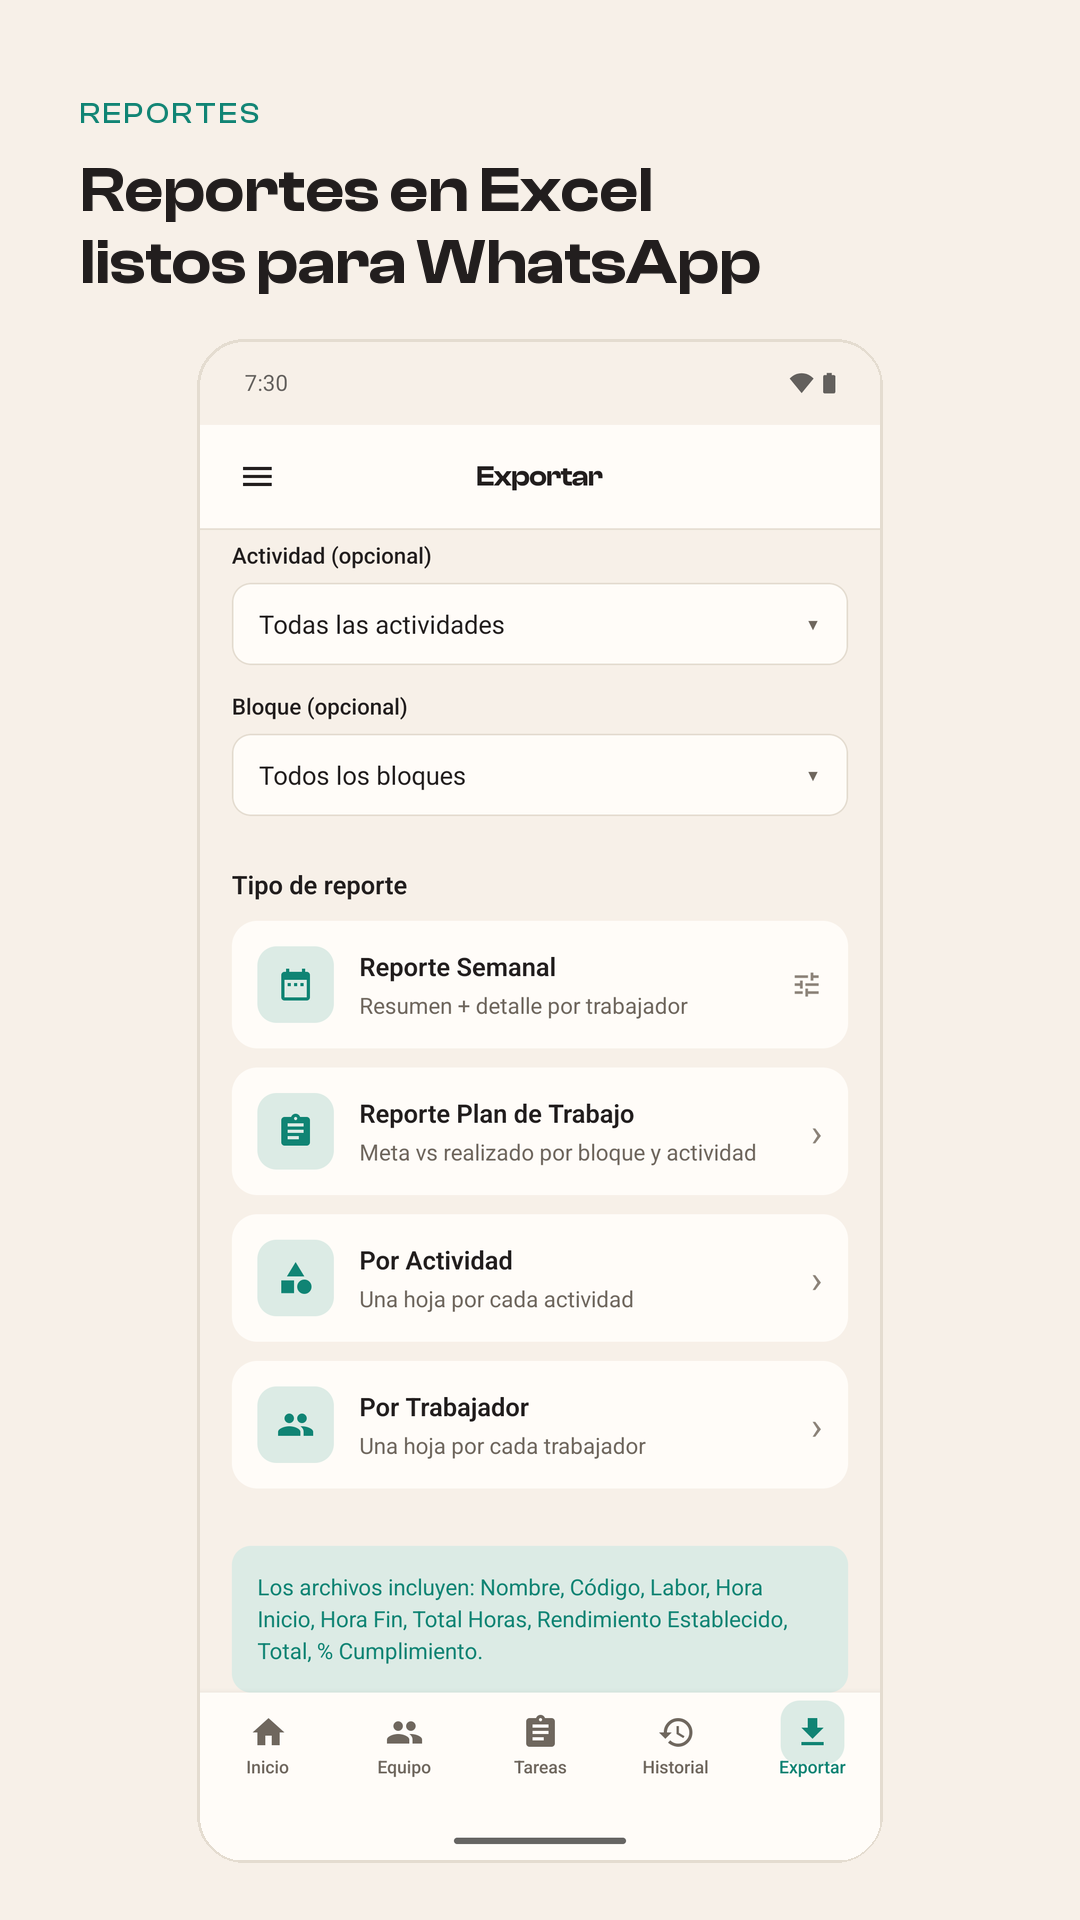
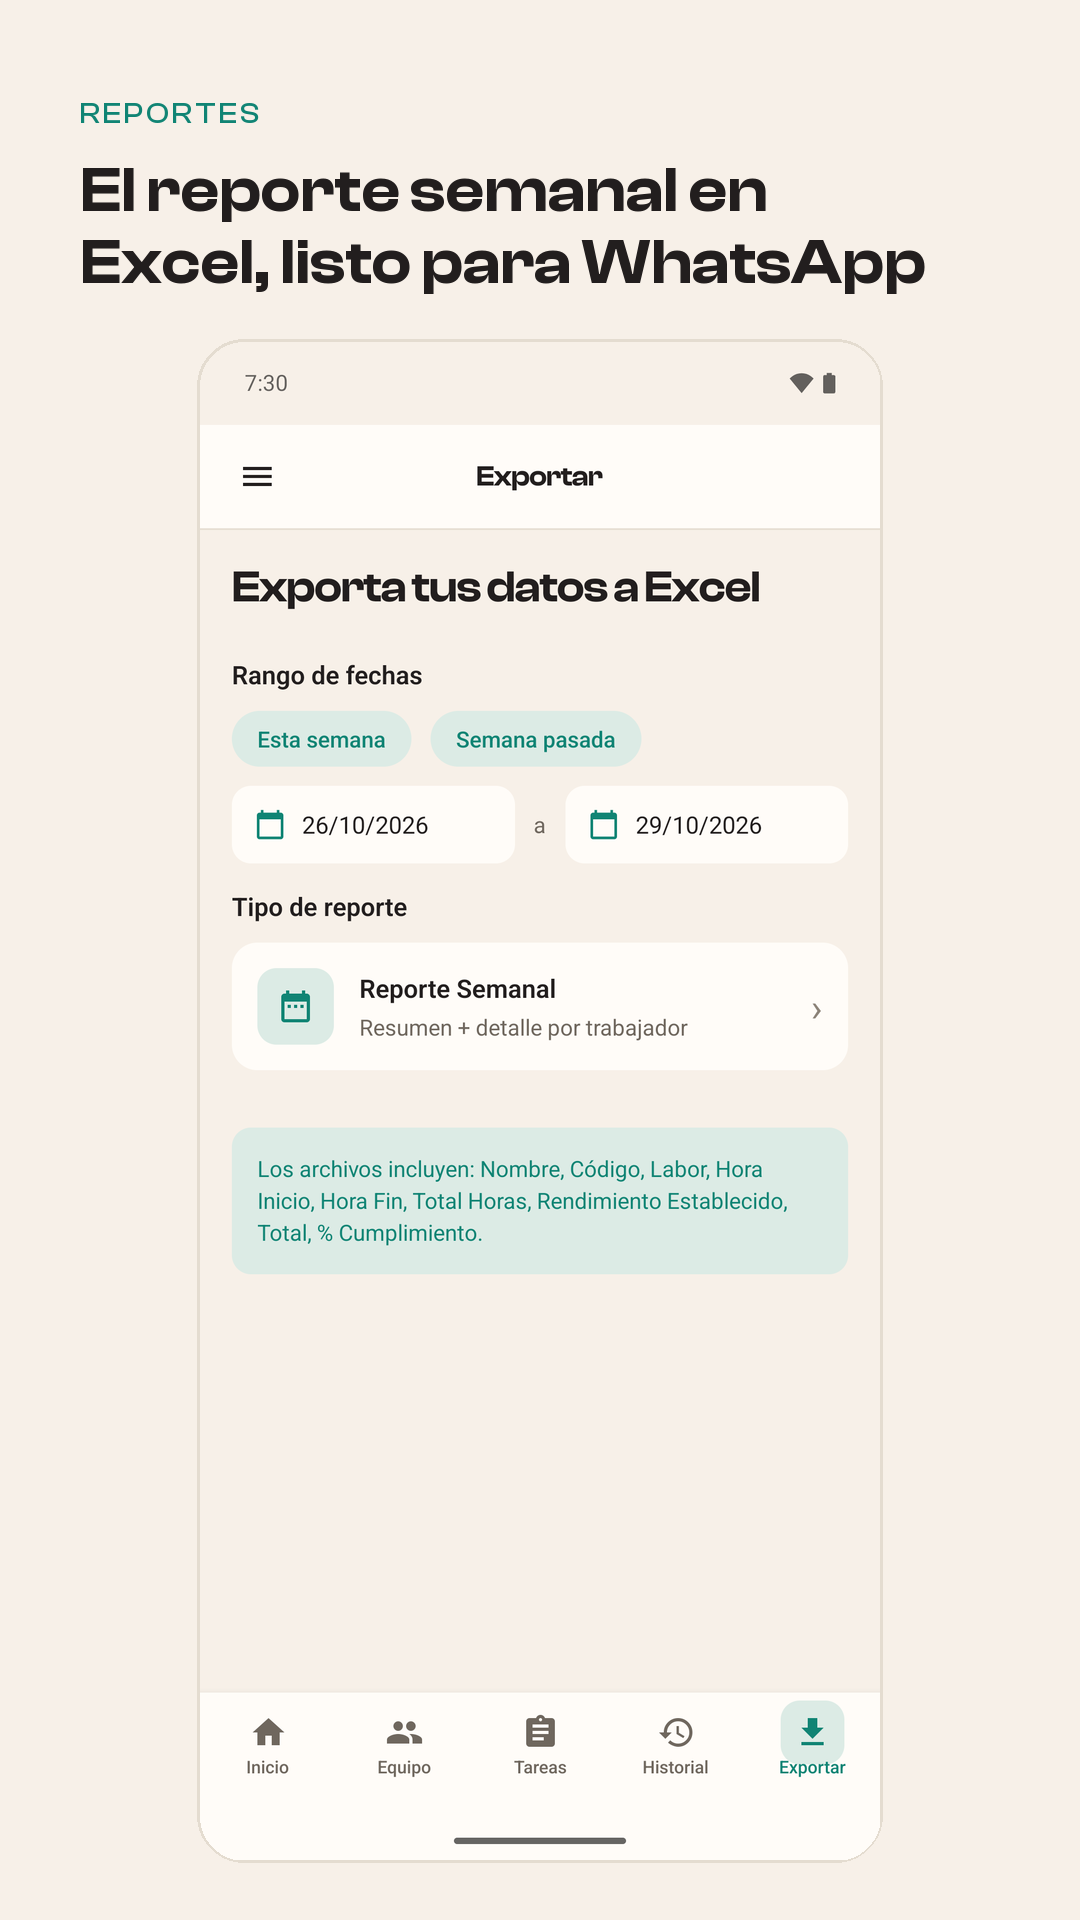
feat: primera versión pública sin las funciones candidatas a Premium
Con PREMIUM_ENABLED = false (src/config/features.ts) se ocultan:
- Estadísticas (menú y botón en Historial)
- Metas semanales (menú, conteo en Respaldo y texto de Bloques)
- Reportes Plan de trabajo, Por actividad y Por trabajador, los filtros
  de Exportar y la selección de columnas: el reporte semanal se exporta
  directo con todas las columnas, y si el rango pasa de 7 días se avisa

Los datos de metas se siguen guardando y viajan en el respaldo, así que
con true vuelve todo. El tutorial, la descripción de la ficha y las
capturas (Historial y Ausencias en lugar de Estadísticas y Metas) quedan
acordes con lo que se ve.

diff --git a/src/presentation/screens/ExportScreen.tsx b/src/presentation/screens/ExportScreen.tsx
@@ -12,6 +12,7 @@ import { SafeAreaView } from 'react-native-safe-area-context';
 import { MaterialIcons } from '@expo/vector-icons';
 import DateTimePicker from '@react-native-community/datetimepicker';
 import { colors, fonts } from '../theme';
+import { PREMIUM_ENABLED } from '../../config/features';
 import { usePerformanceStore, useWorkerStore, useActivityStore, useBlockStore } from '../../store';
 import { exportToExcel, exportByActivity, exportByWorker, exportWeeklyReport, exportWorkPlan, WEEKLY_SUMMARY_FIELDS, WEEKLY_DETAIL_FIELDS } from '../../utils/excelExport';
 import { useToast } from '../context/ToastContext';
@@ -199,51 +200,53 @@ export const ExportScreen: React.FC = () => {
         </View>
 
         {/* Filtros opcionales */}
-        <View style={styles.filterSection}>
-          <View style={styles.filterHeader}>
-            <Text style={styles.sectionTitle}>Filtros opcionales</Text>
-            {(selectedWorker || selectedActivity || selectedBlock) && (
-              <TouchableOpacity 
-                style={styles.clearFiltersBtn}
-                onPress={() => {
-                  setSelectedWorker('');
-                  setSelectedActivity('');
-                  setSelectedBlock('');
-                }}
-              >
-                <MaterialIcons name="clear" size={16} color={colors.danger} />
-                <Text style={styles.clearFiltersText}>Limpiar</Text>
-              </TouchableOpacity>
-            )}
-          </View>
-          
-          <Select
-            label="Trabajador (opcional)"
-            placeholder="Todos los trabajadores"
-            options={[{ label: 'Todos los trabajadores', value: '' }, ...workerOptions]}
-            value={selectedWorker}
-            onChange={setSelectedWorker}
-          />
-          
-          <Select
-            label="Actividad (opcional)"
-            placeholder="Todas las actividades"
-            options={[{ label: 'Todas las actividades', value: '' }, ...activityOptions]}
-            value={selectedActivity}
-            onChange={setSelectedActivity}
-          />
+        {PREMIUM_ENABLED && (
+          <View style={styles.filterSection}>
+            <View style={styles.filterHeader}>
+              <Text style={styles.sectionTitle}>Filtros opcionales</Text>
+              {(selectedWorker || selectedActivity || selectedBlock) && (
+                <TouchableOpacity 
+                  style={styles.clearFiltersBtn}
+                  onPress={() => {
+                    setSelectedWorker('');
+                    setSelectedActivity('');
+                    setSelectedBlock('');
+                  }}
+                >
+                  <MaterialIcons name="clear" size={16} color={colors.danger} />
+                  <Text style={styles.clearFiltersText}>Limpiar</Text>
+                </TouchableOpacity>
+              )}
+            </View>
+            
+            <Select
+              label="Trabajador (opcional)"
+              placeholder="Todos los trabajadores"
+              options={[{ label: 'Todos los trabajadores', value: '' }, ...workerOptions]}
+              value={selectedWorker}
+              onChange={setSelectedWorker}
+            />
+            
+            <Select
+              label="Actividad (opcional)"
+              placeholder="Todas las actividades"
+              options={[{ label: 'Todas las actividades', value: '' }, ...activityOptions]}
+              value={selectedActivity}
+              onChange={setSelectedActivity}
+            />
 
-          <Select
-            label="Bloque (opcional)"
-            placeholder="Todos los bloques"
-            options={[
-              { label: 'Todos los bloques', value: '' },
-              ...blockList.map(b => ({ label: `Bloque ${b.name}`, value: b.name })),
-            ]}
-            value={selectedBlock}
-            onChange={setSelectedBlock}
-          />
-        </View>
+            <Select
+              label="Bloque (opcional)"
+              placeholder="Todos los bloques"
+              options={[
+                { label: 'Todos los bloques', value: '' },
+                ...blockList.map(b => ({ label: `Bloque ${b.name}`, value: b.name })),
+              ]}
+              value={selectedBlock}
+              onChange={setSelectedBlock}
+            />
+          </View>
+        )}
 
         {/* Opciones de exportación */}
         <View style={styles.options}>
@@ -253,7 +256,7 @@ export const ExportScreen: React.FC = () => {
           {!selectedWorker && !selectedActivity && differenceInDays(endDate, startDate) <= 7 && (
             <TouchableOpacity 
               style={styles.exportOption}
-              onPress={() => setShowFieldSelector(true)}
+              onPress={() => (PREMIUM_ENABLED ? setShowFieldSelector(true) : handleExport('weekly'))}
               activeOpacity={0.7}
               disabled={exporting}
             >
@@ -264,30 +267,40 @@ export const ExportScreen: React.FC = () => {
                 <Text style={styles.optionTitle}>Reporte Semanal</Text>
                 <Text style={styles.optionSubtitle}>Resumen + detalle por trabajador</Text>
               </View>
-              <MaterialIcons name="tune" size={20} color={colors.textLight} />
+              {PREMIUM_ENABLED
+                ? <MaterialIcons name="tune" size={20} color={colors.textLight} />
+                : <Text style={styles.chevron}>›</Text>}
             </TouchableOpacity>
           )}
 
+          {!PREMIUM_ENABLED && differenceInDays(endDate, startDate) > 7 && (
+            <Text style={styles.optionSubtitle}>
+              El reporte semanal es de máximo 7 días. Elige "Esta semana" o "Semana pasada".
+            </Text>
+          )}
+
           {/* Reporte Plan de Trabajo */}
-          <TouchableOpacity 
-            style={styles.exportOption}
-            onPress={handleExportWorkPlan}
-            activeOpacity={0.7}
-            disabled={exporting}
-          >
-            <View style={[styles.optionIcon, { backgroundColor: colors.primaryLight }]}>
-              <MaterialIcons name="assignment" size={24} color={colors.primary} />
-            </View>
-            <View style={styles.optionContent}>
-              <Text style={styles.optionTitle}>Reporte Plan de Trabajo</Text>
-              <Text style={styles.optionSubtitle}>Meta vs realizado por bloque y actividad</Text>
-            </View>
-            <Text style={styles.chevron}>›</Text>
-          </TouchableOpacity>
+          {PREMIUM_ENABLED && (
+            <TouchableOpacity 
+              style={styles.exportOption}
+              onPress={handleExportWorkPlan}
+              activeOpacity={0.7}
+              disabled={exporting}
+            >
+              <View style={[styles.optionIcon, { backgroundColor: colors.primaryLight }]}>
+                <MaterialIcons name="assignment" size={24} color={colors.primary} />
+              </View>
+              <View style={styles.optionContent}>
+                <Text style={styles.optionTitle}>Reporte Plan de Trabajo</Text>
+                <Text style={styles.optionSubtitle}>Meta vs realizado por bloque y actividad</Text>
+              </View>
+              <Text style={styles.chevron}>›</Text>
+            </TouchableOpacity>
+          )}
 
 
           {/* Por Actividad - solo si no hay actividad específica seleccionada */}
-          {!selectedActivity && (
+          {PREMIUM_ENABLED && !selectedActivity && (
             <TouchableOpacity 
               style={styles.exportOption}
               onPress={() => handleExport('byActivity')}
@@ -310,7 +323,7 @@ export const ExportScreen: React.FC = () => {
           )}
 
           {/* Por Trabajador - solo si no hay trabajador específico seleccionado */}
-          {!selectedWorker && (
+          {PREMIUM_ENABLED && !selectedWorker && (
             <TouchableOpacity 
               style={styles.exportOption}
               onPress={() => handleExport('byWorker')}

diff --git a/src/presentation/components/Sidebar.tsx b/src/presentation/components/Sidebar.tsx
@@ -5,6 +5,7 @@ import { MaterialIcons } from '@expo/vector-icons';
 import { useNavigation } from '@react-navigation/native';
 import { colors, fonts } from '../theme';
 import { useTour } from '../tour';
+import { PREMIUM_ENABLED } from '../../config/features';
 
 interface SidebarProps {
   visible: boolean;
@@ -86,22 +87,25 @@ export const Sidebar: React.FC<SidebarProps> = ({ visible, onClose }) => {
                 icon={() => <MaterialIcons name="history" size={24} color={colors.primary} />}
                 onPress={() => navigateTo('Records')}
               />
-              
-              <PaperDrawer.Item
-                label="Estadísticas"
-                icon={() => <MaterialIcons name="bar-chart" size={24} color={colors.primary} />}
-                onPress={() => navigateTo('Stats')}
-              />
+              {PREMIUM_ENABLED && (
+                <PaperDrawer.Item
+                  label="Estadísticas"
+                  icon={() => <MaterialIcons name="bar-chart" size={24} color={colors.primary} />}
+                  onPress={() => navigateTo('Stats')}
+                />
+              )}
               <PaperDrawer.Item
                 label="Exportar"
                 icon={() => <MaterialIcons name="file-download" size={24} color={colors.primary} />}
                 onPress={() => navigateTo('Export')}
               />
-              <PaperDrawer.Item
-                label="Metas Semanales"
-                icon={() => <MaterialIcons name="flag" size={24} color={colors.primary} />}
-                onPress={() => navigateTo('WeeklyGoals')}
-              />
+              {PREMIUM_ENABLED && (
+                <PaperDrawer.Item
+                  label="Metas Semanales"
+                  icon={() => <MaterialIcons name="flag" size={24} color={colors.primary} />}
+                  onPress={() => navigateTo('WeeklyGoals')}
+                />
+              )}
               <PaperDrawer.Item
                 label="Ausencias"
                 icon={() => <MaterialIcons name="event-busy" size={24} color={colors.primary} />}

diff --git a/src/presentation/screens/RecordsScreen.tsx b/src/presentation/screens/RecordsScreen.tsx
@@ -12,6 +12,7 @@ import { SafeAreaView } from 'react-native-safe-area-context';
 import { MaterialIcons } from '@expo/vector-icons';
 import { useNavigation } from '@react-navigation/native';
 import { colors, fonts } from '../theme';
+import { PREMIUM_ENABLED } from '../../config/features';
 import { PerformanceCard, BottomSheet, Select, Button, EmptyState, Sidebar, MenuButton, Input } from '../components';
 import { useWorkerStore, useActivityStore, usePerformanceStore, useBlockStore } from '../../store';
 import { exportToExcel, exportByActivity, exportByWorker } from '../../utils/excelExport';
@@ -141,12 +142,14 @@ export const RecordsScreen: React.FC = () => {
         <MenuButton onPress={() => setShowMenu(true)} />
         <Text style={styles.title}>Historial</Text>
         <View style={styles.headerActions}>
-          <TouchableOpacity
-            style={styles.headerButton}
-            onPress={() => navigation.navigate('Stats')}
-          >
-            <MaterialIcons name="bar-chart" size={24} color={colors.textSecondary} />
-          </TouchableOpacity>
+          {PREMIUM_ENABLED && (
+            <TouchableOpacity
+              style={styles.headerButton}
+              onPress={() => navigation.navigate('Stats')}
+            >
+              <MaterialIcons name="bar-chart" size={24} color={colors.textSecondary} />
+            </TouchableOpacity>
+          )}
           <TouchableOpacity
             style={[styles.headerButton, hasActiveFilters && styles.headerButtonActive]}
             onPress={() => setShowFilters(true)}

diff --git a/src/presentation/tour/steps.ts b/src/presentation/tour/steps.ts
@@ -1,3 +1,5 @@
+import { PREMIUM_ENABLED } from '../../config/features';
+
 export interface TourStep {
   id: string;
   // Elemento que se resalta (registrado con useTourTarget). Sin target, el globo sale centrado.
@@ -33,7 +35,9 @@ export const TOUR_STEPS: TourStep[] = [
     id: 'menu',
     target: 'menu',
     title: '3. Crea los bloques',
-    text: 'En el menú están Bloques, Metas semanales, Ausencias, Estadísticas y Respaldo. Necesitas al menos un bloque para registrar turnos.',
+    text: PREMIUM_ENABLED
+      ? 'En el menú están Bloques, Metas semanales, Ausencias, Estadísticas y Respaldo. Necesitas al menos un bloque para registrar turnos.'
+      : 'En el menú están Bloques, Ausencias y Respaldo. Necesitas al menos un bloque para registrar turnos.',
   },
   {
     id: 'add',
@@ -65,7 +69,9 @@ export const TOUR_STEPS: TourStep[] = [
     target: 'tab-file-download',
     extendBottom: 20,
     title: 'Reportes en Excel',
-    text: 'Saca el reporte semanal, el plan de trabajo (meta contra lo realizado) o el detalle por trabajador o tarea, y compártelo por WhatsApp o correo.',
+    text: PREMIUM_ENABLED
+      ? 'Saca el reporte semanal, el plan de trabajo (meta contra lo realizado) o el detalle por trabajador o tarea, y compártelo por WhatsApp o correo.'
+      : 'Saca el reporte semanal con el resumen y el detalle por trabajador, y compártelo por WhatsApp o correo.',
   },
   {
     id: 'done',

diff --git a/src/presentation/screens/BackupScreen.tsx b/src/presentation/screens/BackupScreen.tsx
@@ -6,6 +6,7 @@ import { useFocusEffect } from '@react-navigation/native';
 import { format } from 'date-fns';
 import { es } from 'date-fns/locale';
 import { colors, fonts } from '../theme';
+import { PREMIUM_ENABLED } from '../../config/features';
 import { Button, Card, Sidebar, MenuButton } from '../components';
 import { useToast } from '../context/ToastContext';
 import {
@@ -26,7 +27,7 @@ import {
   useAbsenceStore,
 } from '../../store';
 
-const COUNT_LABELS: { key: keyof BackupCounts; one: string; many: string }[] = [
+const ALL_COUNT_LABELS: { key: keyof BackupCounts; one: string; many: string }[] = [
   { key: 'workers', one: 'trabajador', many: 'trabajadores' },
   { key: 'activities', one: 'actividad', many: 'actividades' },
   { key: 'blocks', one: 'bloque', many: 'bloques' },
@@ -34,6 +35,9 @@ const COUNT_LABELS: { key: keyof BackupCounts; one: string; many: string }[] = [
   { key: 'weeklyGoals', one: 'meta semanal', many: 'metas semanales' },
   { key: 'absences', one: 'día con ausencias', many: 'días con ausencias' },
 ];
+
+// Sin Premium la pantalla de metas está oculta: no se muestran en los conteos
+const COUNT_LABELS = ALL_COUNT_LABELS.filter(({ key }) => PREMIUM_ENABLED || key !== 'weeklyGoals');
 
 const summarize = (counts: BackupCounts) =>
   COUNT_LABELS.map(({ key, one, many }) => `${counts[key]} ${counts[key] === 1 ? one : many}`).join('\n');

diff --git a/src/presentation/screens/BlocksScreen.tsx b/src/presentation/screens/BlocksScreen.tsx
@@ -10,6 +10,7 @@ import {
 } from 'react-native';
 import { SafeAreaView } from 'react-native-safe-area-context';
 import { colors, fonts } from '../theme';
+import { PREMIUM_ENABLED } from '../../config/features';
 import { Button, Input, BottomSheet, ListItem, EmptyState, Sidebar, MenuButton } from '../components';
 import { useBlockStore } from '../../store';
 import { Block } from '../../domain/entities';
@@ -282,7 +283,7 @@ export const BlocksScreen: React.FC = () => {
 
         <View style={styles.helpText}>
           <Text style={styles.helpTextContent}>
-            💡 Los bloques se usan para organizar las metas semanales y registros de rendimiento
+            💡 Los bloques se usan para organizar {PREMIUM_ENABLED ? 'las metas semanales y ' : ''}los registros de rendimiento
           </Text>
         </View>
 

diff --git a/src/config/features.ts b/src/config/features.ts
@@ -1,0 +1,12 @@
+/**
+ * Funciones candidatas a Premium. La primera versión pública sale sin ellas para ver
+ * primero cómo se usa la app; con `true` vuelven a aparecer todas:
+ * - Estadísticas (menú y botón en Historial)
+ * - Metas semanales (menú)
+ * - Reportes Plan de trabajo, Por actividad y Por trabajador, filtros de Exportar
+ *   y elegir columnas del reporte semanal
+ *
+ * Los datos de metas semanales se siguen guardando y viajan en el respaldo aunque
+ * la pantalla esté oculta.
+ */
+export const PREMIUM_ENABLED = false;

diff --git a/play-store/GUIA.md b/play-store/GUIA.md
@@ -53,11 +53,11 @@ QUÉ PUEDES HACER
 • Actividades: cada labor con su unidad de medida y su meta por hora (tallos, camas, plantas…).
 • Bloques: organiza el trabajo por bloque o lote.
 • Registros diarios: uno o varios turnos por trabajador, y la app avisa si los horarios se cruzan.
-• Metas semanales: fija metas por actividad y bloque, y mira cuánto llevas y cuánto falta.
+• Resumen del día: cuántos cumplieron la meta, el porcentaje de cumplimiento y el total por labor.
+• Historial: consulta y corrige los registros de días anteriores.
 • Ausencias: personas y horas perdidas de cada día, con observaciones.
-• Estadísticas: rendimiento promedio, rendimiento por trabajador y su tendencia en el tiempo.
-• Reportes en Excel: semanal (resumen y detalle por trabajador), plan de trabajo (meta contra lo realizado por bloque y actividad), por actividad y por trabajador. Eliges las columnas y lo compartes por WhatsApp o correo.
-• Gráficas en PDF para compartir con la administración.
+• Reporte semanal en Excel: resumen y detalle por trabajador, listo para compartir por WhatsApp o correo.
+• Respaldo: guarda todos tus datos en un archivo y pásalos a otro celular cuando lo necesites.
 
 FUNCIONA SIN INTERNET
 Todo se guarda en tu celular. No necesitas señal en el campo ni crear una cuenta.
@@ -87,10 +87,12 @@ Ya están en `play-store/capturas/`, en el orden en que van en la ficha:
 
 1. Inicio: el rendimiento del día.
 2. Nuevo registro.
-3. Estadísticas: quién cumple la meta.
-4. Metas semanales por bloque.
-5. Reportes en Excel.
+3. Historial: consulta y corrige días anteriores.
+4. Ausencias: quién faltó y cuántas horas se perdieron.
+5. Reporte semanal en Excel.
 6. Respaldo: los datos se quedan en el celular.
+
+Estadísticas, Metas semanales y los reportes avanzados están ocultos en esta versión (`PREMIUM_ENABLED = false` en `src/config/features.ts`), así que no salen en las capturas ni en la descripción. Si se activan, hay que volver a incluirlos aquí.
 
 Se tomaron en el emulador con datos inventados (nombres ficticios, ninguno de Innovaflora), con la barra de estado limpia, y llevan un titular arriba con el estilo de la marca. Súbelas todas en *Ficha de Play Store principal → Capturas de pantalla del teléfono*.
 
